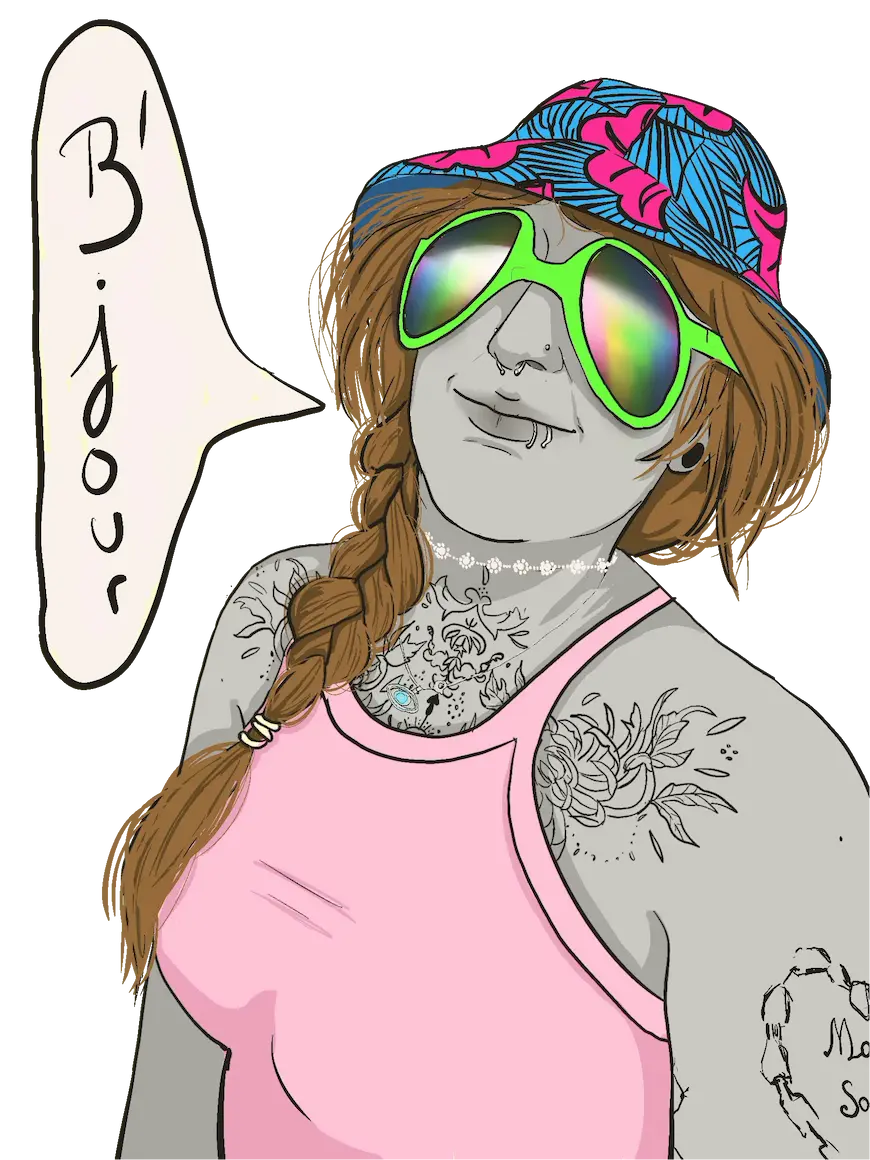
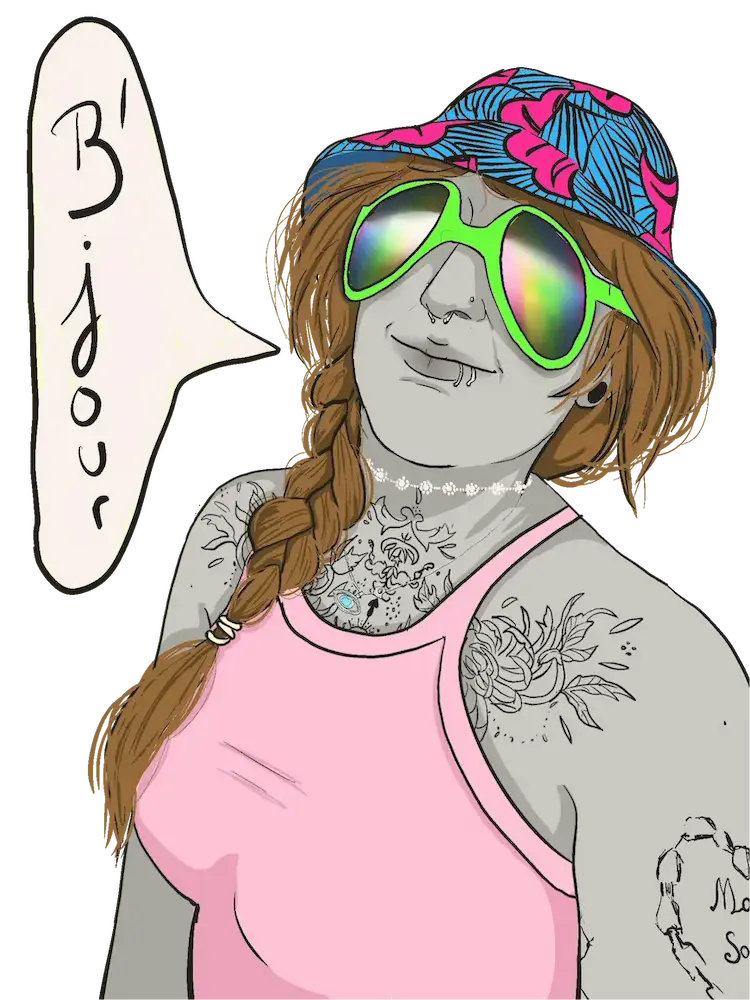
ajout de l'image de profile en perf optimiser

diff --git a/my-react-app/src/components/Me.jsx b/my-react-app/src/components/Me.jsx
@@ -1,26 +1,32 @@
 import { useState, useEffect } from "react";
+import SmartImage from "./SmartImage";
 
 export default function Me({
   className = "",
-  src,
-  title,
-  text,
-  introduction,
-  sousintroduction,
-  image,     
-  static: staticImg,  
+  item,
   interactiveGif = false,
-  gifDuration = 4000,  
+  gifDuration = 4000,
   variant,
 }) {
+  // On récupère les données directement depuis item
+  const {
+    title,
+    text,
+    introduction,
+    sousintroduction,
+    image,      // GIF
+    static: staticImg, // Image statique
+  } = item;
 
+  // Gestion du GIF interactif
   const [currentSrc, setCurrentSrc] = useState(
-    interactiveGif ?  staticImg : image);
-  
-  useEffect(() => {
-    if (!interactiveGif) return; 
+    interactiveGif ? staticImg : image
+  );
 
-    
+  // GIF auto play au chargement
+  useEffect(() => {
+    if (!interactiveGif) return;
+
     setCurrentSrc(image);
 
     const timer = setTimeout(() => {
@@ -30,11 +36,8 @@ export default function Me({
     return () => clearTimeout(timer);
   }, [interactiveGif, image, staticImg, gifDuration]);
 
-
   const handleMouseEnter = () => {
-    if (interactiveGif) {
-      setCurrentSrc(image); 
-    }
+    if (interactiveGif) setCurrentSrc(image);
   };
 
   const handleMouseLeave = () => {
@@ -42,28 +45,31 @@ export default function Me({
   };
 
   return (
-   <div className="tes" id="about">
+    <div className="tes" id="about">
       <div className={`Presentation ${className || ""}`}>
         <div className={`me-container ${className || ""}`}></div>
         <div className="position-img">
-          <img
-            className={`pictureprofile ${className || ""}`}
-           src={src}
-           fetchPriority="high"
+          <SmartImage
+            item={item}
+            size="small"
+            className={`pictureprofile ${className}`}
+            fetchPriority="high"
             loading="eager"
-            alt="Une photo de Judith"
           />
         </div>
+
         <div className="presentation">
           <h2 className="introduction-ombre">{title}</h2>
-          <h3 className={` introduction ${className || ""}`}>{title}</h3>
+          <h3 className={`introduction ${className}`}>{title}</h3>
         </div>
       </div>
+
+      {/* Bloc texte + GIF */}
       <div className="Presentation-back">
         <img
           className={`hand ${variant} ${className}`}
           src={currentSrc}
-          alt="Animation"
+          alt={item.alt}
           onMouseEnter={handleMouseEnter}
           onMouseLeave={handleMouseLeave}
         />

diff --git a/my-react-app/src/pages/HomePage.jsx b/my-react-app/src/pages/HomePage.jsx
@@ -19,13 +19,7 @@ export default function HomePage() {
         {presentation.map((item) => (
           <Me
             key={item.id}
-            id={item.id}
-            title={item.title}
-            text={item.text}
-            src={item.src}
-            introduction={item.introduction}
-            sousintroduction={item.sousintroduction}
-            image={item.image}
+            item={item}
             variant="hand-move"
           />
         ))}

diff --git a/my-react-app/src/pages/IceBergPage.jsx b/my-react-app/src/pages/IceBergPage.jsx
@@ -27,12 +27,12 @@ export default function HomePage() {
           
           <Me
             key={item.id}
+            item={item}
             id={item.id}
             title={item.title}
             text={item.text}
             introduction={item.introduction}
             sousintroduction={item.sousintroduction}
-            src={item.src}
             image={item.image}
             static={item.static}
             interactiveGif={true}

diff --git a/my-react-app/src/assets/Me/me-ice.scss b/my-react-app/src/assets/Me/me-ice.scss
@@ -2,7 +2,7 @@
   background-image: url("../img/fond_fleur.webp");
 }
 
-img.pictureprofile.ice {
+.pictureprofile.ice {
   height: 43vw;
   background: orange;
   aspect-ratio: 3 / 4;

diff --git a/my-react-app/src/assets/Me/me-ice.css b/my-react-app/src/assets/Me/me-ice.css
@@ -2,7 +2,7 @@
   background-image: url("../img/fond_fleur.webp");
 }
 
-img.pictureprofile.ice {
+.pictureprofile.ice {
   height: 43vw;
   background: orange;
   aspect-ratio: 3/4;

diff --git a/my-react-app/src/assets/Me/me.css b/my-react-app/src/assets/Me/me.css
@@ -75,7 +75,7 @@ h3.Name {
   align-items: center;
 }
 
-img.pictureprofile {
+.pictureprofile {
   height: 43vw;
   background: #1d5677;
   max-height: 570px;

diff --git a/my-react-app/src/assets/Me/me.scss b/my-react-app/src/assets/Me/me.scss
@@ -74,7 +74,7 @@ h3.Name {
   align-items: center;
 }
 
-img.pictureprofile {
+.pictureprofile {
   height: 43vw;
   background: #1d5677;
   max-height: 570px;
